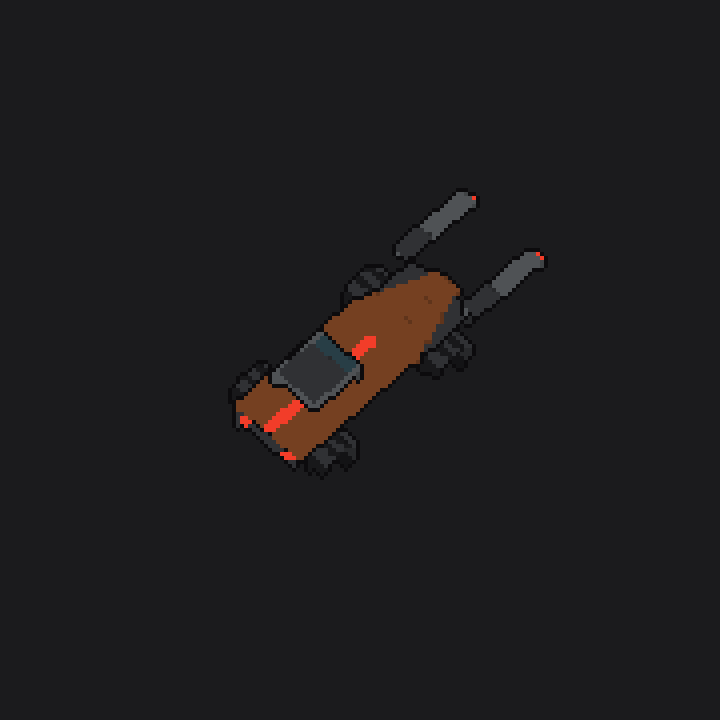
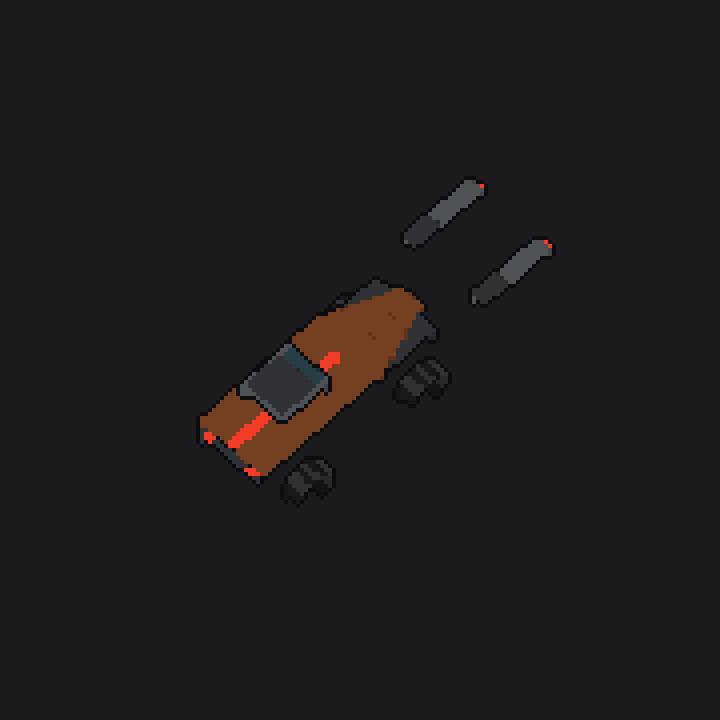
Art previews: push every wreck chunk outward

Changed region(s): [[0.275, 0.2444, 0.7639, 0.6722]]

diff --git a/tools/art/preview.py b/tools/art/preview.py
@@ -33,6 +33,8 @@ for f in sorted(os.listdir(SPR)):
     for cn, cd in meta["chunks"].items():
         ch = frame(Image.open(os.path.join(SPR, cd["sheet"])), meta, i)
         ox, oy = cd["offsets"][i]
-        canvas.alpha_composite(ch, (int(fw / 2 + ox * 0.8), int(fw / 2 + oy * 0.8)))
+        d = max(1.0, (ox * ox + oy * oy) ** 0.5)
+        push = 10.0 / d + 0.5   # every piece moves out ~10 px plus half its offset
+        canvas.alpha_composite(ch, (int(fw / 2 + ox * push), int(fw / 2 + oy * push)))
     canvas.resize((fw * 8, fw * 8), Image.NEAREST).save(os.path.join(OUT, f"{name}_chunks_x4.png"))
     print(name)
